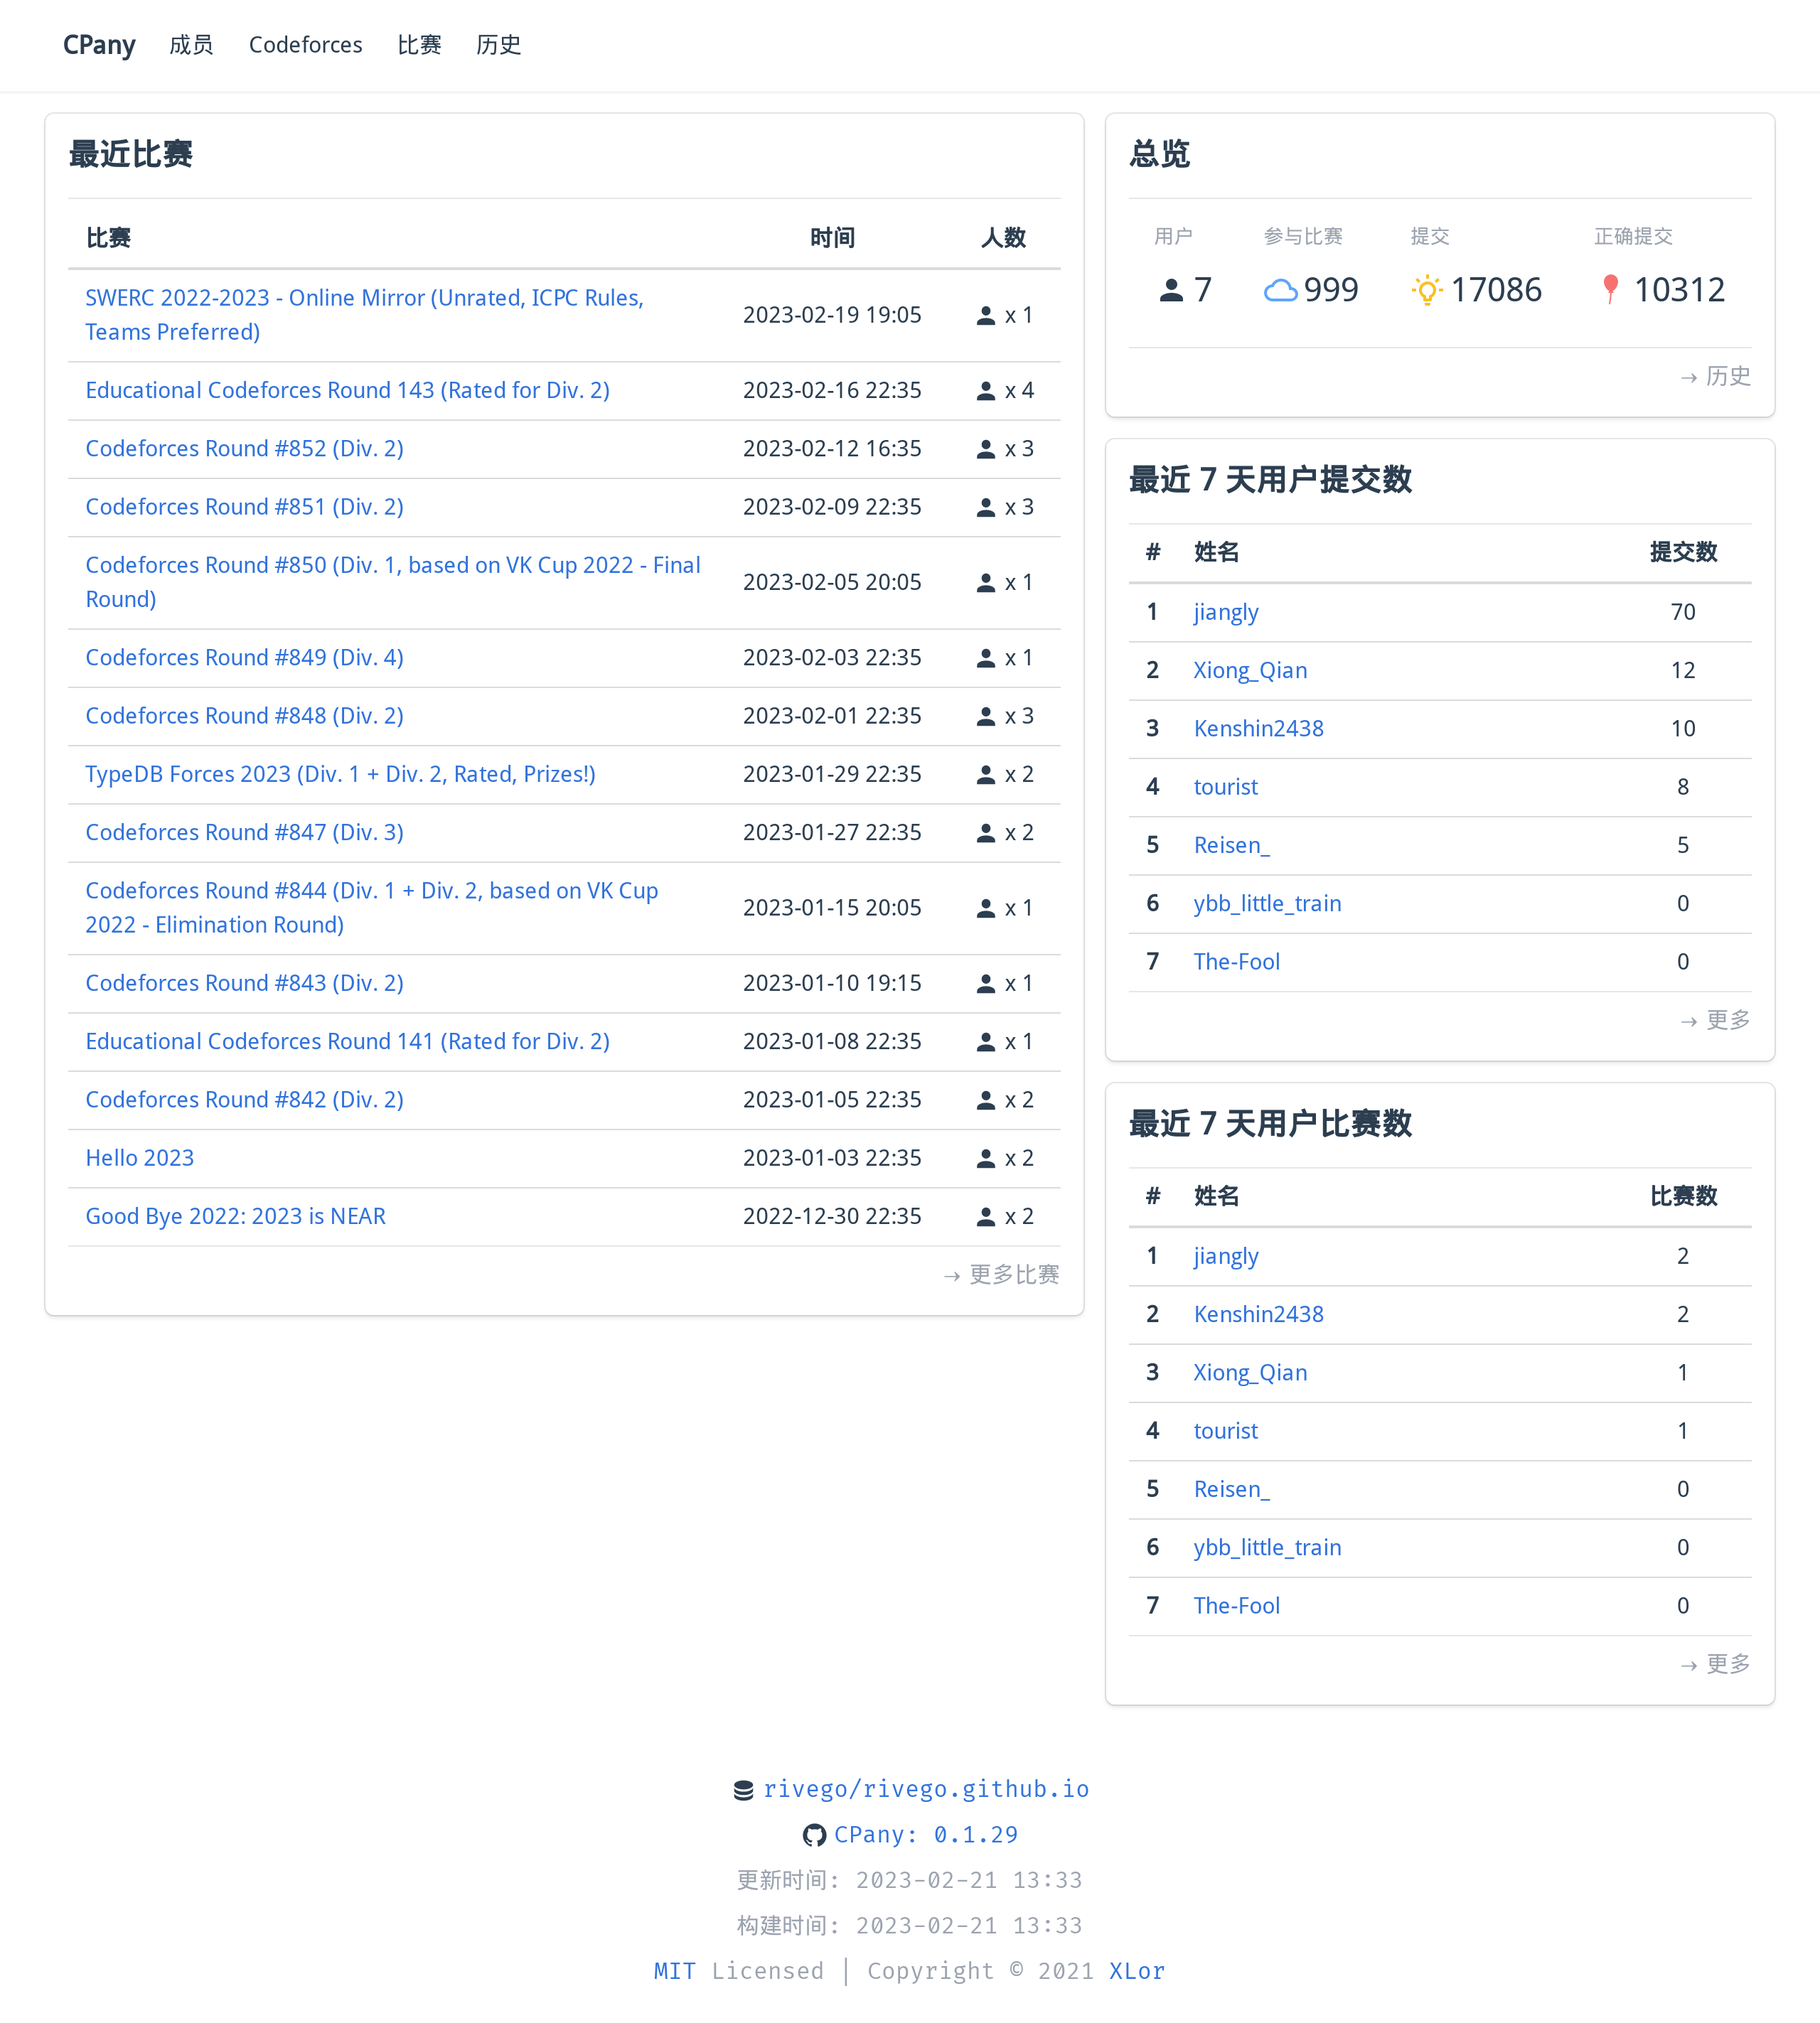
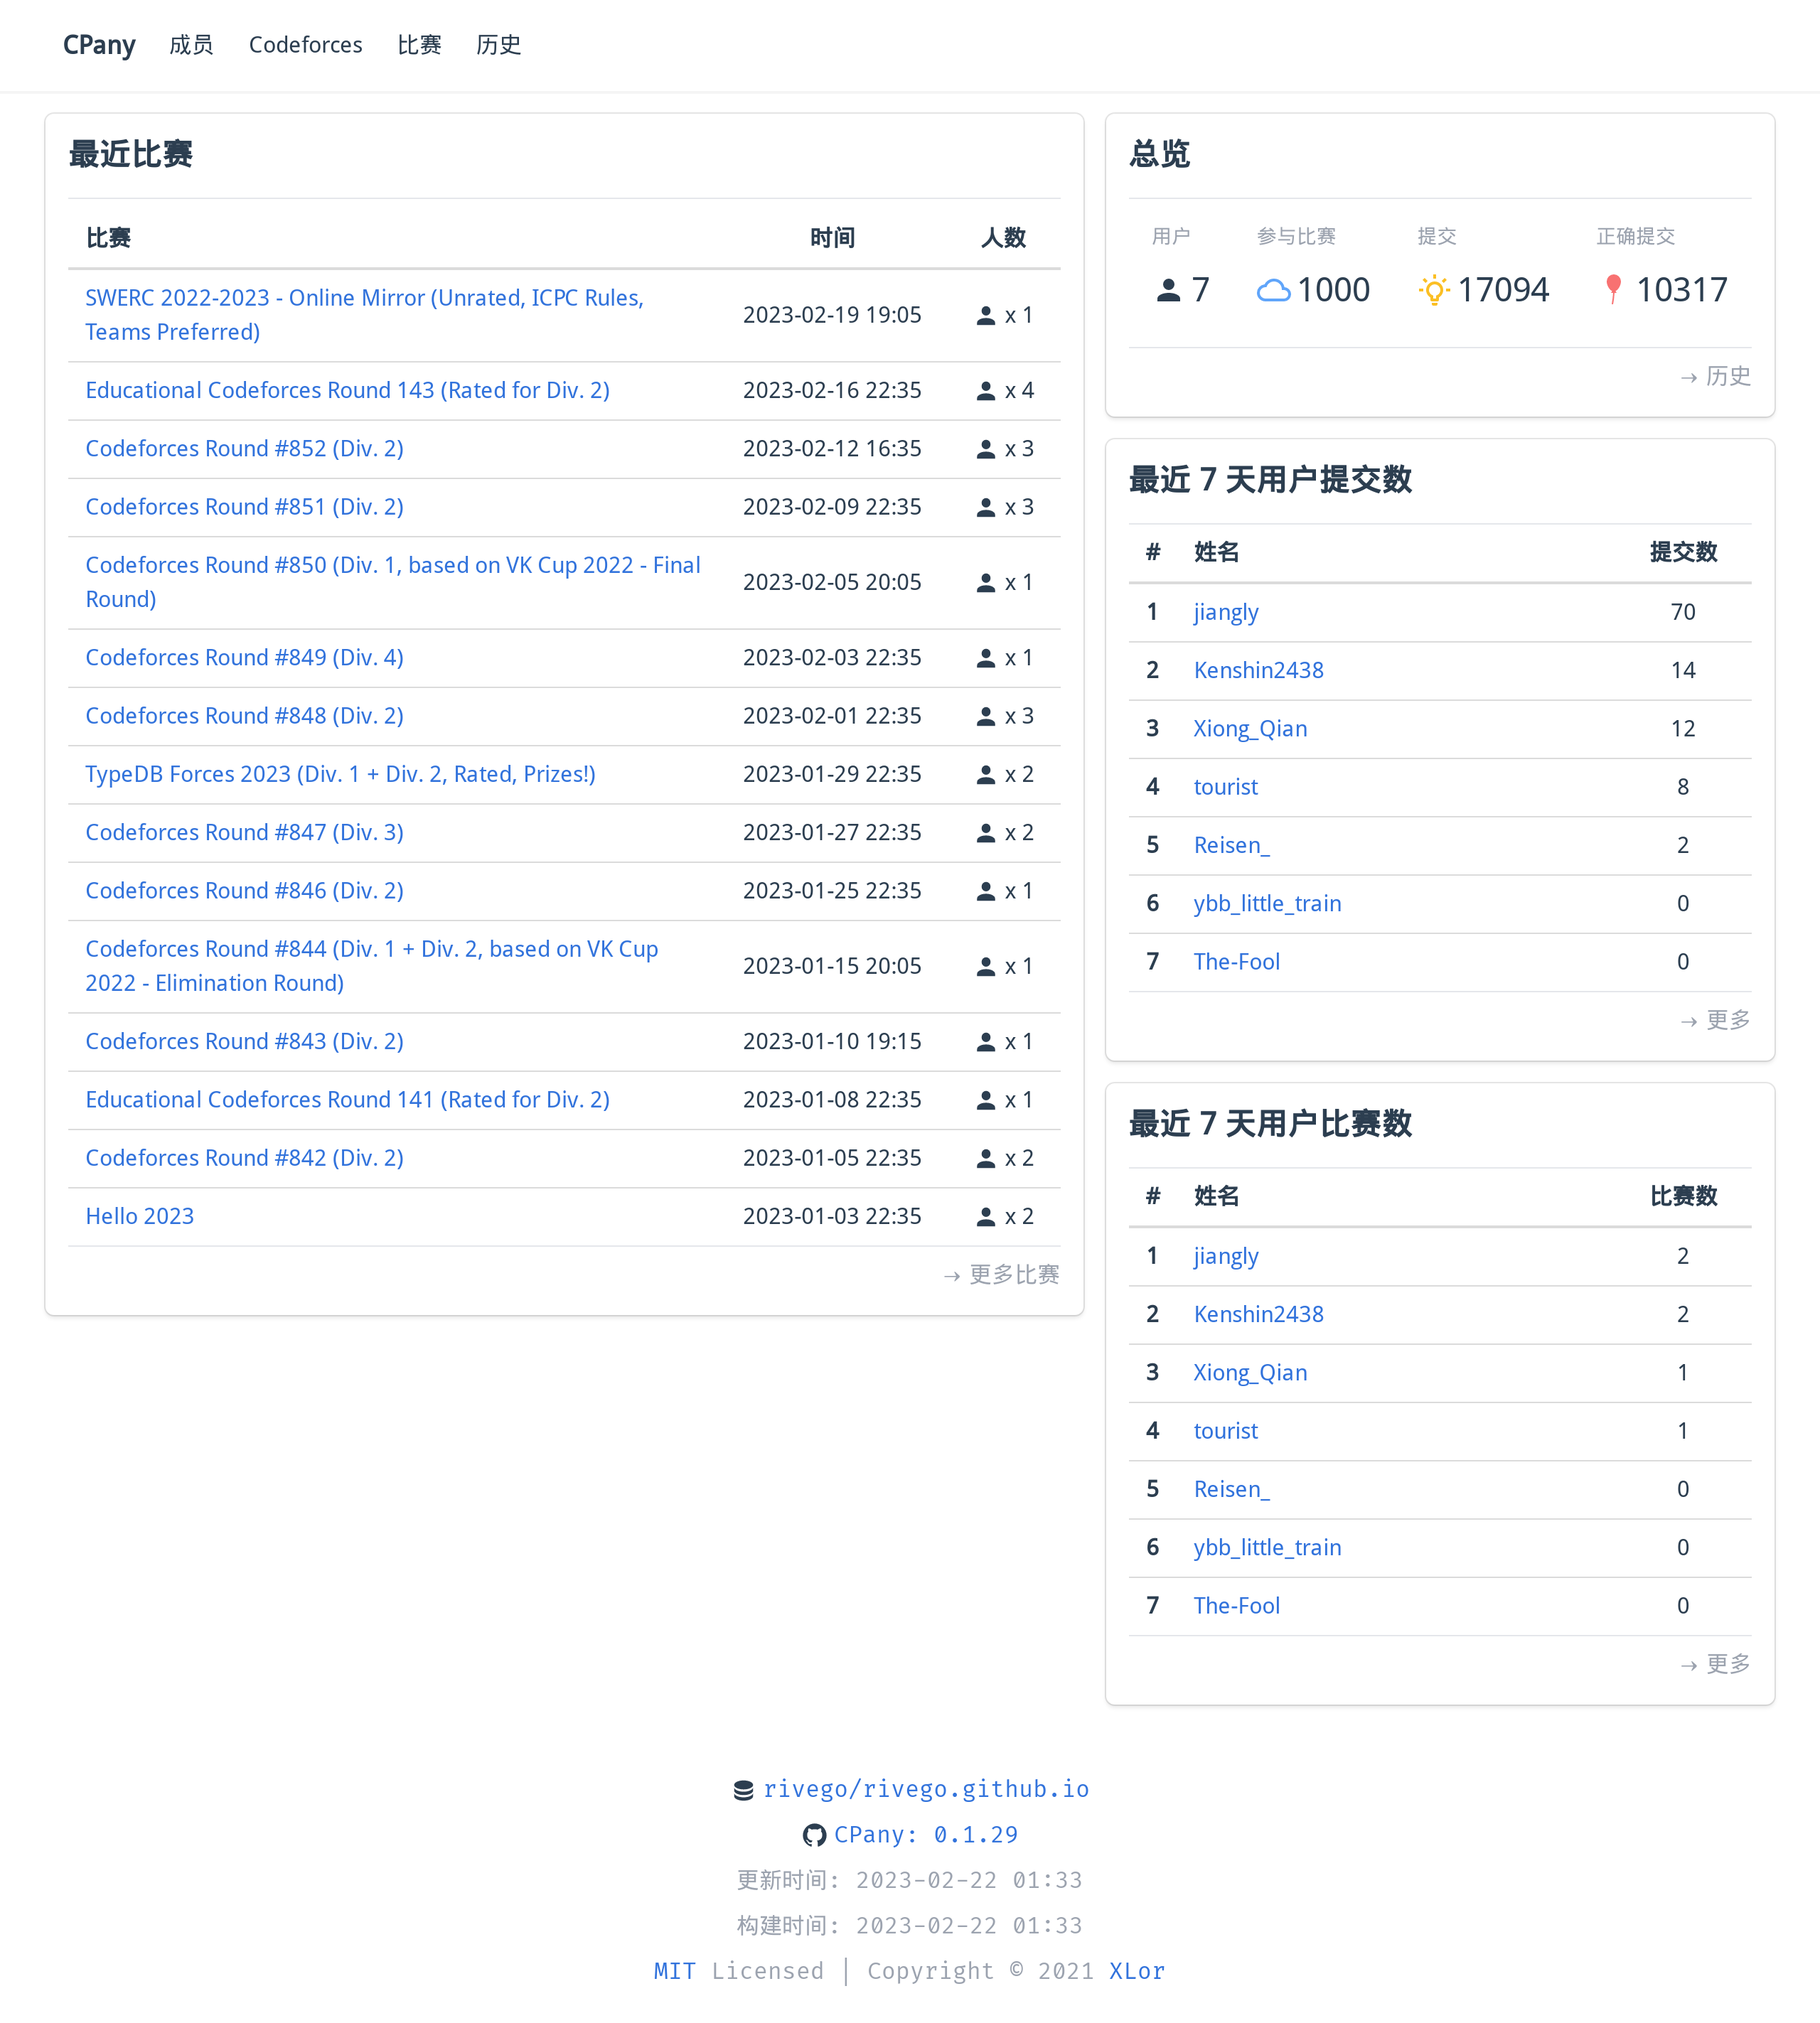
Fetch data on 2023-02-22 01:33

diff --git a/README.md b/README.md
@@ -3,7 +3,7 @@
 [![version](https://img.shields.io/npm/v/@cpany/cli?color=rgb%2850%2C203%2C86%29&label=CPany)](https://www.npmjs.com/package/@cpany/cli)
 
 <!-- START_SECTION: update_time -->
-更新时间：[2023-02-21 13:33](https://www.timeanddate.com/worldclock/fixedtime.html?msg=Fetch+data&iso=202302211676957620000133340&p1=237)
+更新时间：[2023-02-22 01:33](https://www.timeanddate.com/worldclock/fixedtime.html?msg=Fetch+data&iso=202302221677000814000013334&p1=237)
 <!-- END_SECTION: update_time -->
 
 ![members](./screenshot.png)
